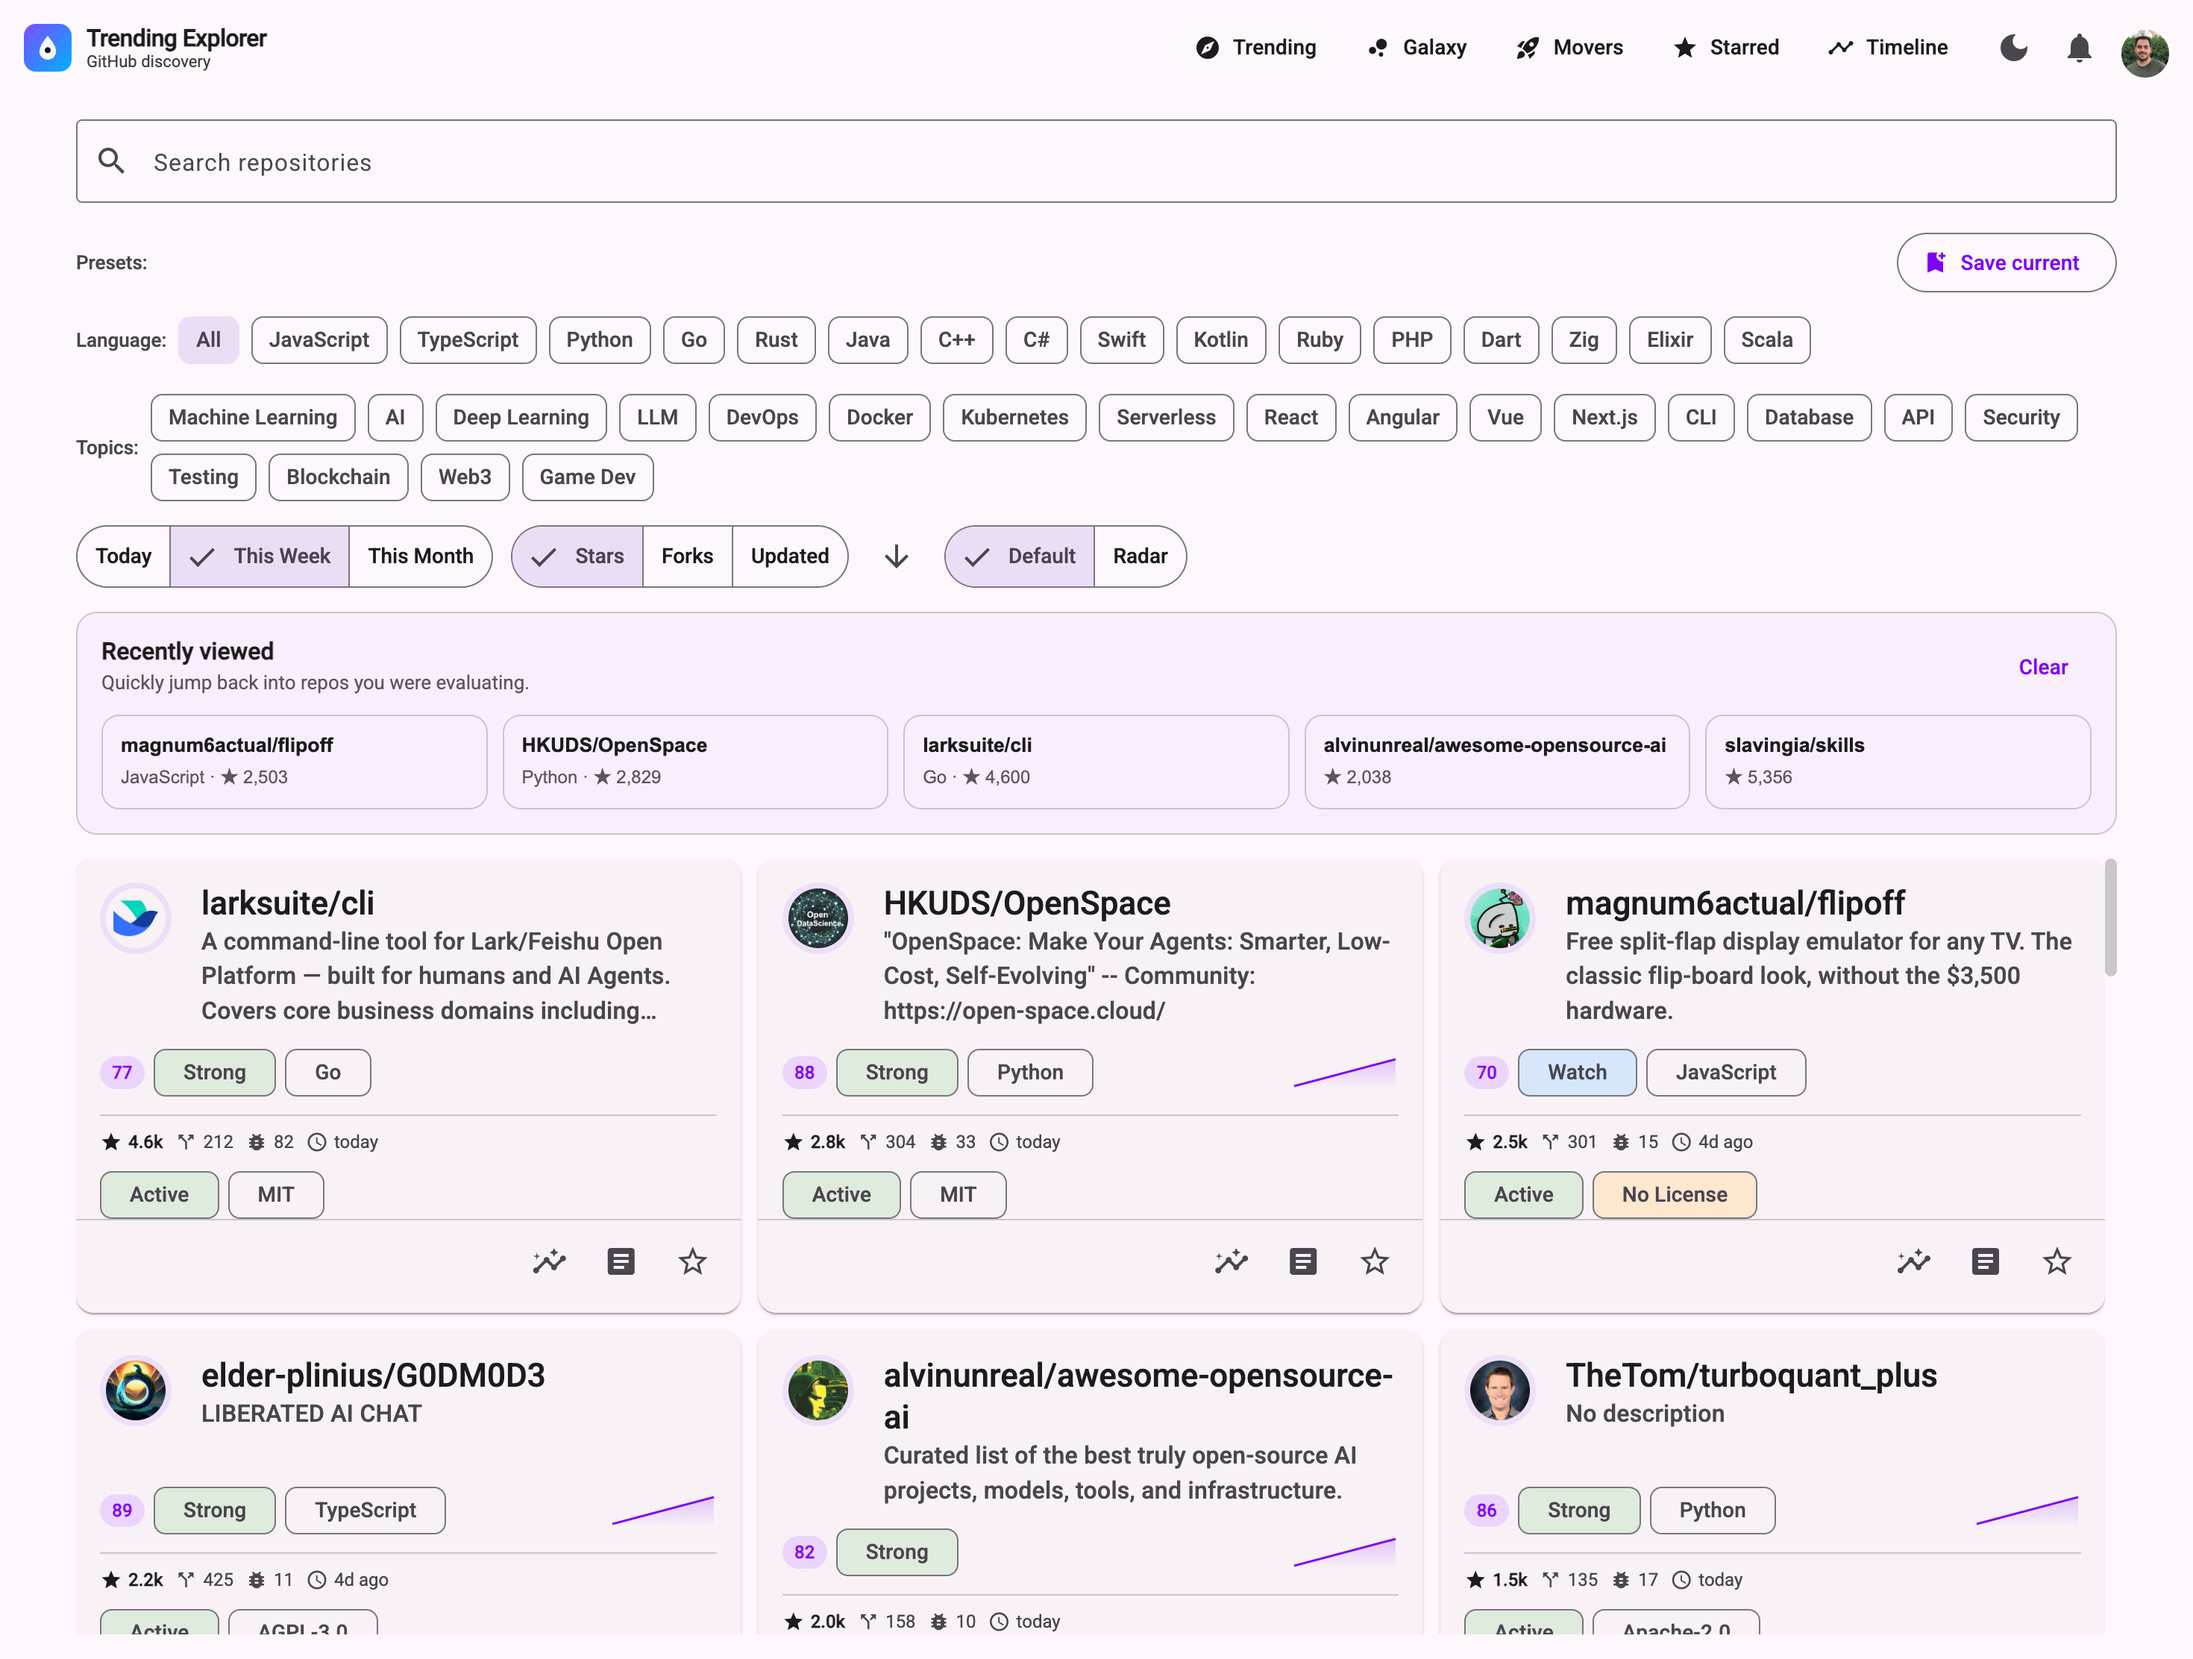
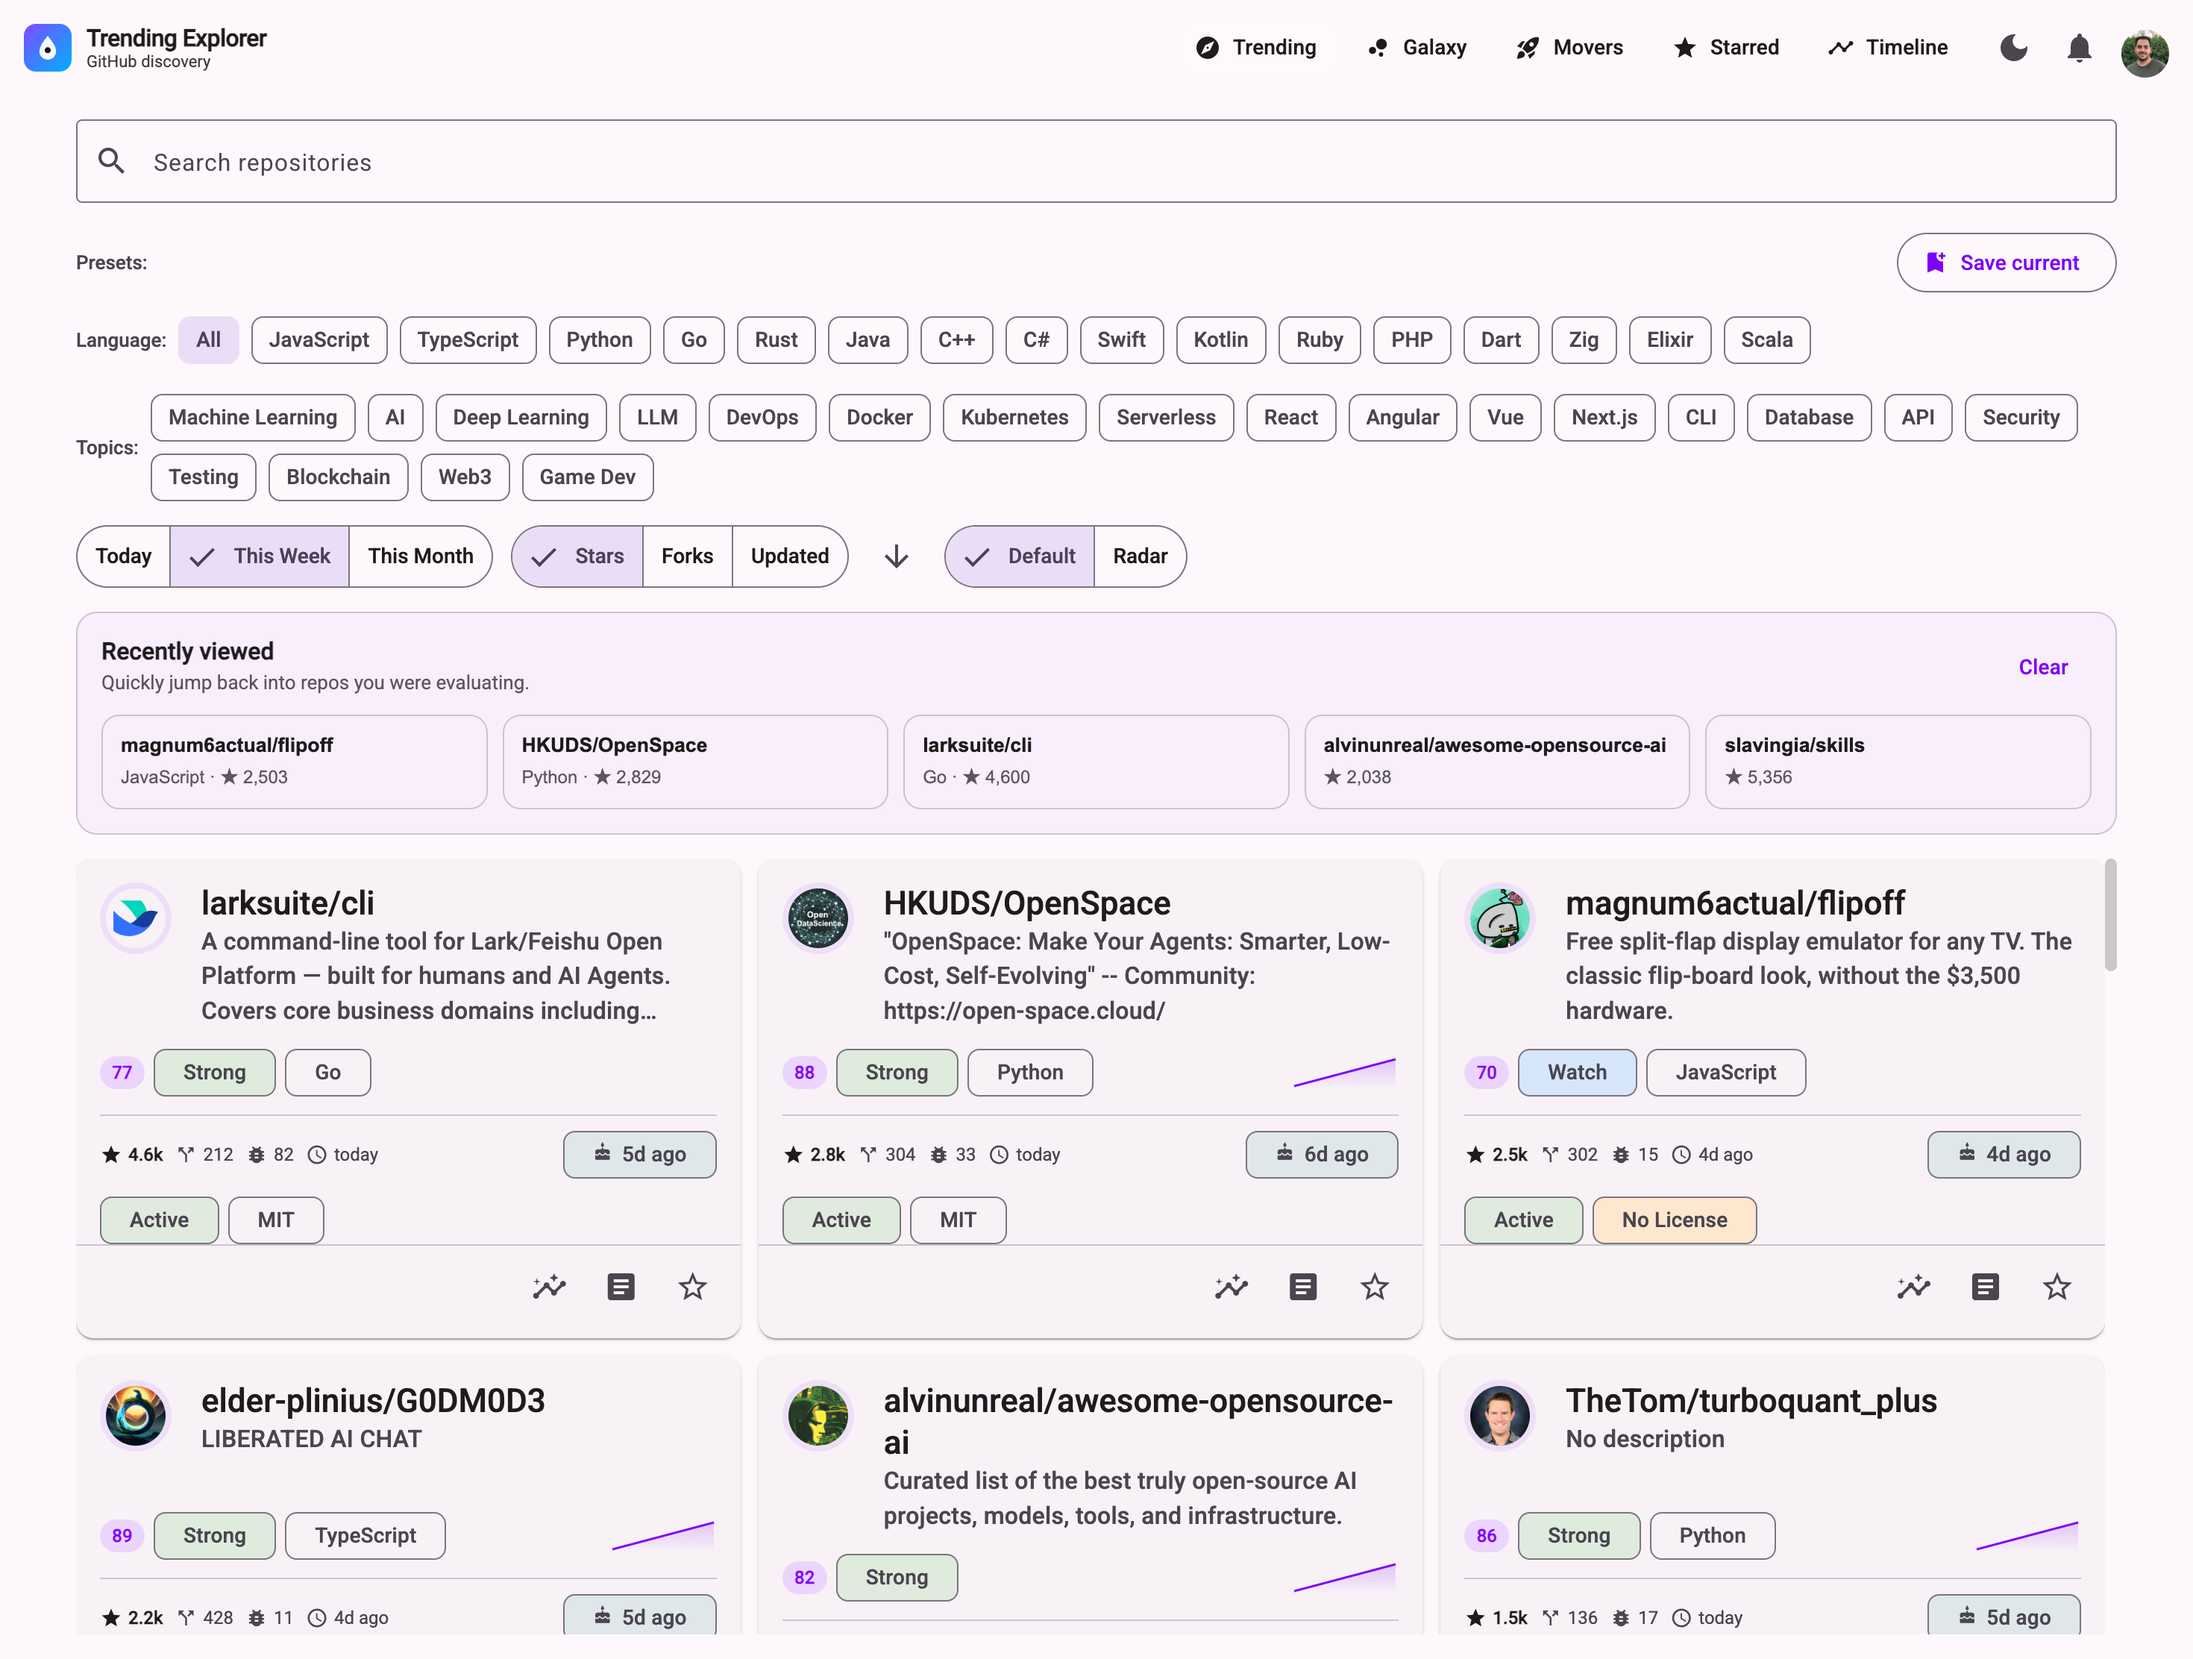
Enhance repo card component with animated count directive and update project.json size limits (#4)

diff --git a/apps/frontend/src/app/shared/directives/animate-count.directive.ts b/apps/frontend/src/app/shared/directives/animate-count.directive.ts
@@ -1,0 +1,144 @@
+import {
+  Directive,
+  ElementRef,
+  inject,
+  input,
+  effect,
+  DestroyRef,
+  AfterViewInit,
+} from '@angular/core';
+
+@Directive({
+  selector: '[appAnimateCount]',
+  standalone: true,
+})
+export class AnimateCountDirective implements AfterViewInit {
+  appAnimateCount = input.required<number>();
+  appAnimateCountFormat = input<((v: number) => string) | undefined>(undefined);
+  appAnimateCountDuration = input(800);
+
+  private el = inject(ElementRef);
+  private destroyRef = inject(DestroyRef);
+  private frameId: number | null = null;
+  private hasBeenVisible = false;
+  private observer: IntersectionObserver | null = null;
+  private pendingTarget: number | null = null;
+
+  constructor() {
+    AnimateCountDirective.injectStyles();
+
+    effect(() => {
+      const target = this.appAnimateCount();
+      const fmt = this.appAnimateCountFormat();
+      const duration = this.appAnimateCountDuration();
+
+      if (!this.hasBeenVisible) {
+        this.pendingTarget = target;
+        const el = this.el.nativeElement as HTMLElement;
+        el.textContent = fmt ? fmt(0) : '0';
+        return;
+      }
+
+      this.animate(target, duration, fmt);
+    });
+  }
+
+  ngAfterViewInit() {
+    const host = this.el.nativeElement as HTMLElement;
+
+    this.observer = new IntersectionObserver(
+      (entries) => {
+        if (entries[0]?.isIntersecting && !this.hasBeenVisible) {
+          this.hasBeenVisible = true;
+          this.observer?.disconnect();
+          this.observer = null;
+
+          if (this.pendingTarget != null) {
+            const target = this.pendingTarget;
+            this.pendingTarget = null;
+            this.animate(
+              target,
+              this.appAnimateCountDuration(),
+              this.appAnimateCountFormat()
+            );
+          }
+        }
+      },
+      { rootMargin: '50px', threshold: 0.01 }
+    );
+
+    this.observer.observe(host);
+
+    this.destroyRef.onDestroy(() => {
+      this.observer?.disconnect();
+      if (this.frameId != null) {
+        cancelAnimationFrame(this.frameId);
+      }
+    });
+  }
+
+  private animate(
+    target: number,
+    duration: number,
+    fmt?: (v: number) => string
+  ) {
+    if (this.frameId != null) {
+      cancelAnimationFrame(this.frameId);
+      this.frameId = null;
+    }
+
+    const el = this.el.nativeElement as HTMLElement;
+
+    if (duration <= 0 || target === 0) {
+      el.textContent = fmt ? fmt(target) : String(target);
+      return;
+    }
+
+    el.classList.add('ac-counting');
+    el.classList.remove('ac-done');
+
+    const start = performance.now();
+    const step = (now: number) => {
+      const elapsed = now - start;
+      const progress = Math.min(elapsed / duration, 1);
+      const eased = 1 - Math.pow(1 - progress, 3);
+      const current = Math.round(eased * target);
+      el.textContent = fmt ? fmt(current) : String(current);
+
+      if (progress < 1) {
+        this.frameId = requestAnimationFrame(step);
+      } else {
+        this.frameId = null;
+        el.classList.remove('ac-counting');
+        el.classList.add('ac-done');
+        setTimeout(() => el.classList.remove('ac-done'), 500);
+      }
+    };
+
+    this.frameId = requestAnimationFrame(step);
+  }
+
+  private static stylesInjected = false;
+  private static injectStyles() {
+    if (AnimateCountDirective.stylesInjected) return;
+    AnimateCountDirective.stylesInjected = true;
+
+    const style = document.createElement('style');
+    style.id = 'ac-styles';
+    style.textContent = `
+      .ac-counting {
+        color: var(--mat-sys-primary, #1976d2) !important;
+        transition: color 0.2s ease;
+      }
+      .ac-done {
+        animation: ac-pop 0.4s cubic-bezier(0.22, 1, 0.36, 1);
+      }
+      @keyframes ac-pop {
+        0%   { transform: scale(1); filter: brightness(1); }
+        35%  { transform: scale(1.15); filter: brightness(1.3); }
+        100% { transform: scale(1); filter: brightness(1); }
+      }
+    `;
+    document.head.appendChild(style);
+  }
+}

diff --git a/apps/frontend/src/app/shared/components/repo-card.component.ts b/apps/frontend/src/app/shared/components/repo-card.component.ts
@@ -20,6 +20,7 @@ import { formatRelativeDate } from '@github-trending/shared/utils';
 import { ApiService } from '../../core/api.service';
 import { AuthStore } from '../../store/auth.store';
 import { SparklineComponent } from './sparkline.component';
+import { AnimateCountDirective } from '../directives/animate-count.directive';
 
 @Component({
   selector: 'app-repo-card',
@@ -32,6 +33,7 @@ import { SparklineComponent } from './sparkline.component';
     MatTooltipModule,
     MatProgressSpinnerModule,
     SparklineComponent,
+    AnimateCountDirective,
   ],
   template: `
     <mat-card
@@ -67,9 +69,11 @@ import { SparklineComponent } from './sparkline.component';
       <mat-card-content>
         <div class="signal-row">
           @if (repo().watchScore !== null && repo().watchScore !== undefined) {
-            <span class="watch-score" [matTooltip]="watchReasonsTooltip()">
-              {{ repo().watchScore }}
-            </span>
+            <span
+              class="watch-score"
+              [matTooltip]="watchReasonsTooltip()"
+              [appAnimateCount]="repo().watchScore!"
+            ></span>
             <mat-chip
               [class]="'watch-label-chip ' + watchLabelClass()"
               [matTooltip]="watchLabelTooltip()"
@@ -101,20 +105,33 @@ import { SparklineComponent } from './sparkline.component';
         <div class="stats-row">
           <span class="stat stat-primary" matTooltip="Stars">
             <mat-icon class="stat-icon">star</mat-icon>
-            {{ formatStars(repo().stargazers_count) }}
+            <span
+              [appAnimateCount]="repo().stargazers_count"
+              [appAnimateCountFormat]="formatStars"
+            ></span>
           </span>
           <span class="stat" matTooltip="Forks">
             <mat-icon class="stat-icon">call_split</mat-icon>
-            {{ repo().forks_count }}
+            <span
+              [appAnimateCount]="repo().forks_count"
+              [appAnimateCountFormat]="formatStars"
+            ></span>
           </span>
           <span class="stat" matTooltip="Open issues">
             <mat-icon class="stat-icon">bug_report</mat-icon>
-            {{ repo().open_issues_count }}
+            <span [appAnimateCount]="repo().open_issues_count"></span>
           </span>
           <span class="stat" matTooltip="Last pushed">
             <mat-icon class="stat-icon">schedule</mat-icon>
             {{ formatDate(repo().pushed_at) }}
           </span>
+          <mat-chip
+            class="age-chip"
+            [matTooltip]="'Created ' + repo().created_at.split('T')[0]"
+          >
+            <mat-icon class="age-icon">cake</mat-icon>
+            {{ formatDate(repo().created_at) }}
+          </mat-chip>
         </div>
 
         <div class="secondary-row">
@@ -417,6 +434,22 @@ import { SparklineComponent } from './sparkline.component';
     .topic-chip {
       background-color: color-mix(in srgb, #2196f3 14%, var(--mat-sys-surface, #fff)) !important;
       color: color-mix(in srgb, #1565c0 90%, var(--mat-sys-on-surface, #000));
+    }
+
+    .age-chip {
+      font-size: 11px;
+      min-height: 22px;
+      padding: 0 8px;
+      margin-left: auto;
+      background: color-mix(in srgb, var(--mat-sys-tertiary, #795548) 12%, var(--mat-sys-surface, #fff)) !important;
+      color: var(--mat-sys-on-surface-variant, rgba(0, 0, 0, 0.6));
+    }
+
+    .age-icon {
+      font-size: 13px;
+      width: 13px;
+      height: 13px;
+      margin-right: 3px;
     }
 
     .topic-chip-muted {
